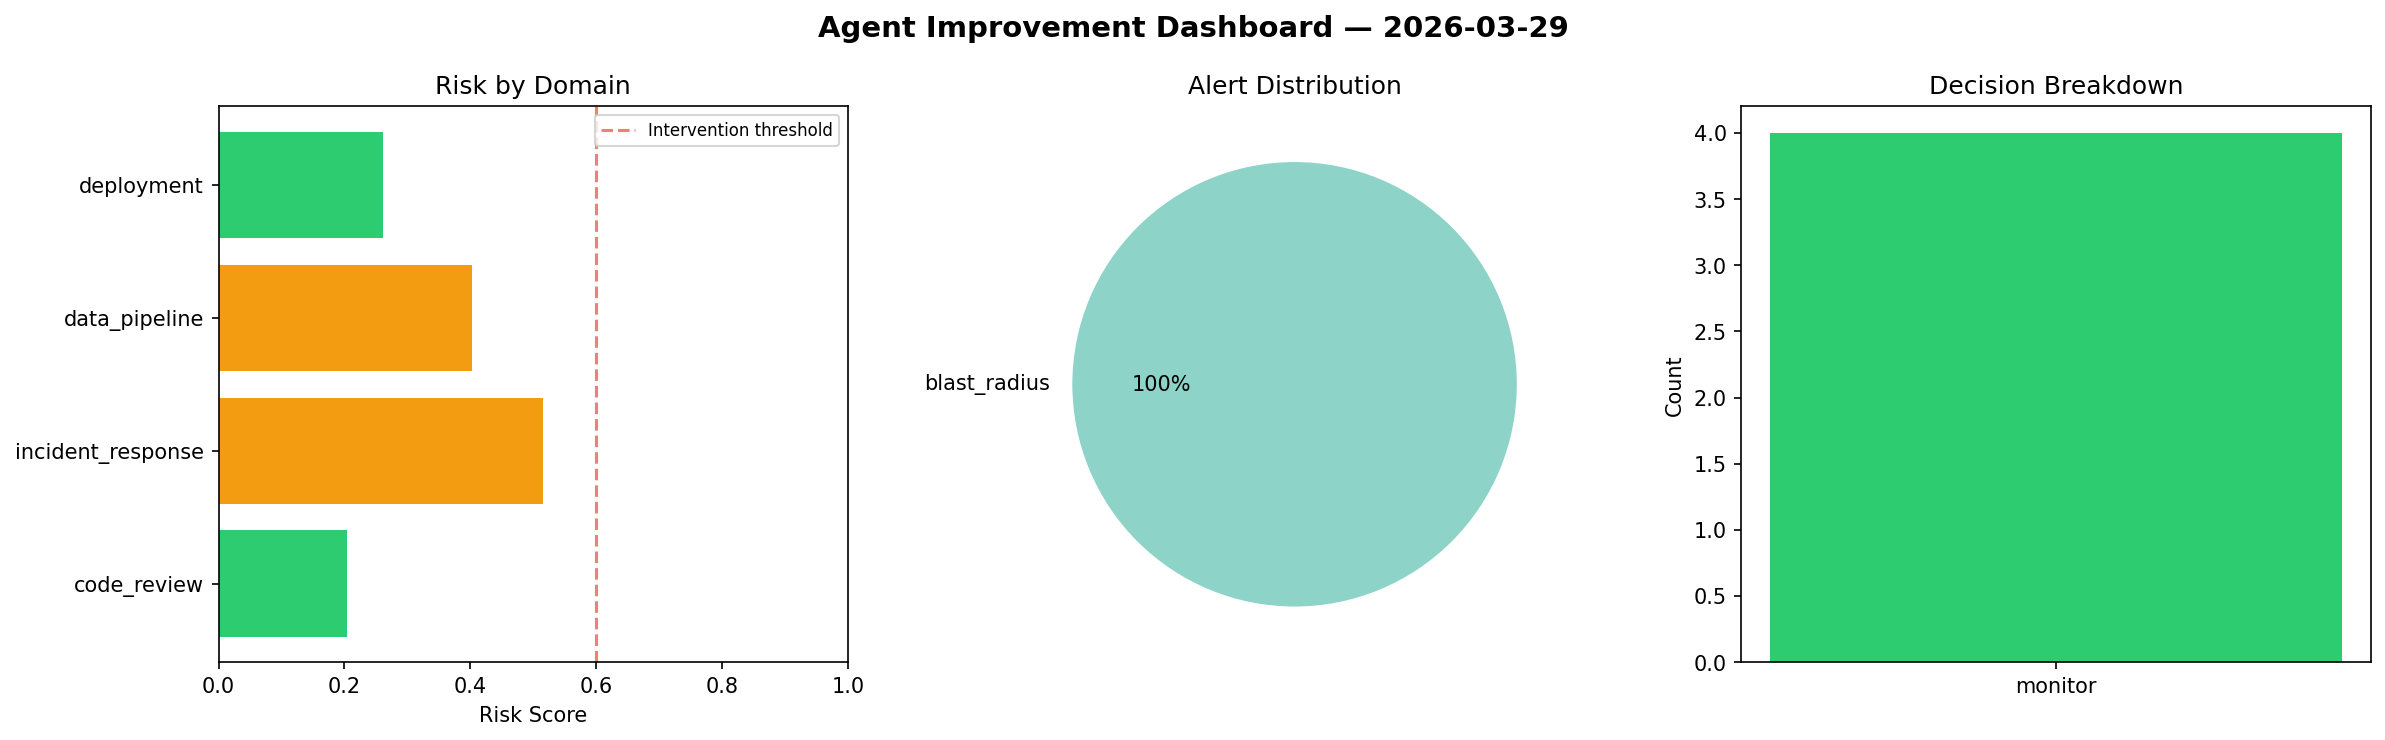
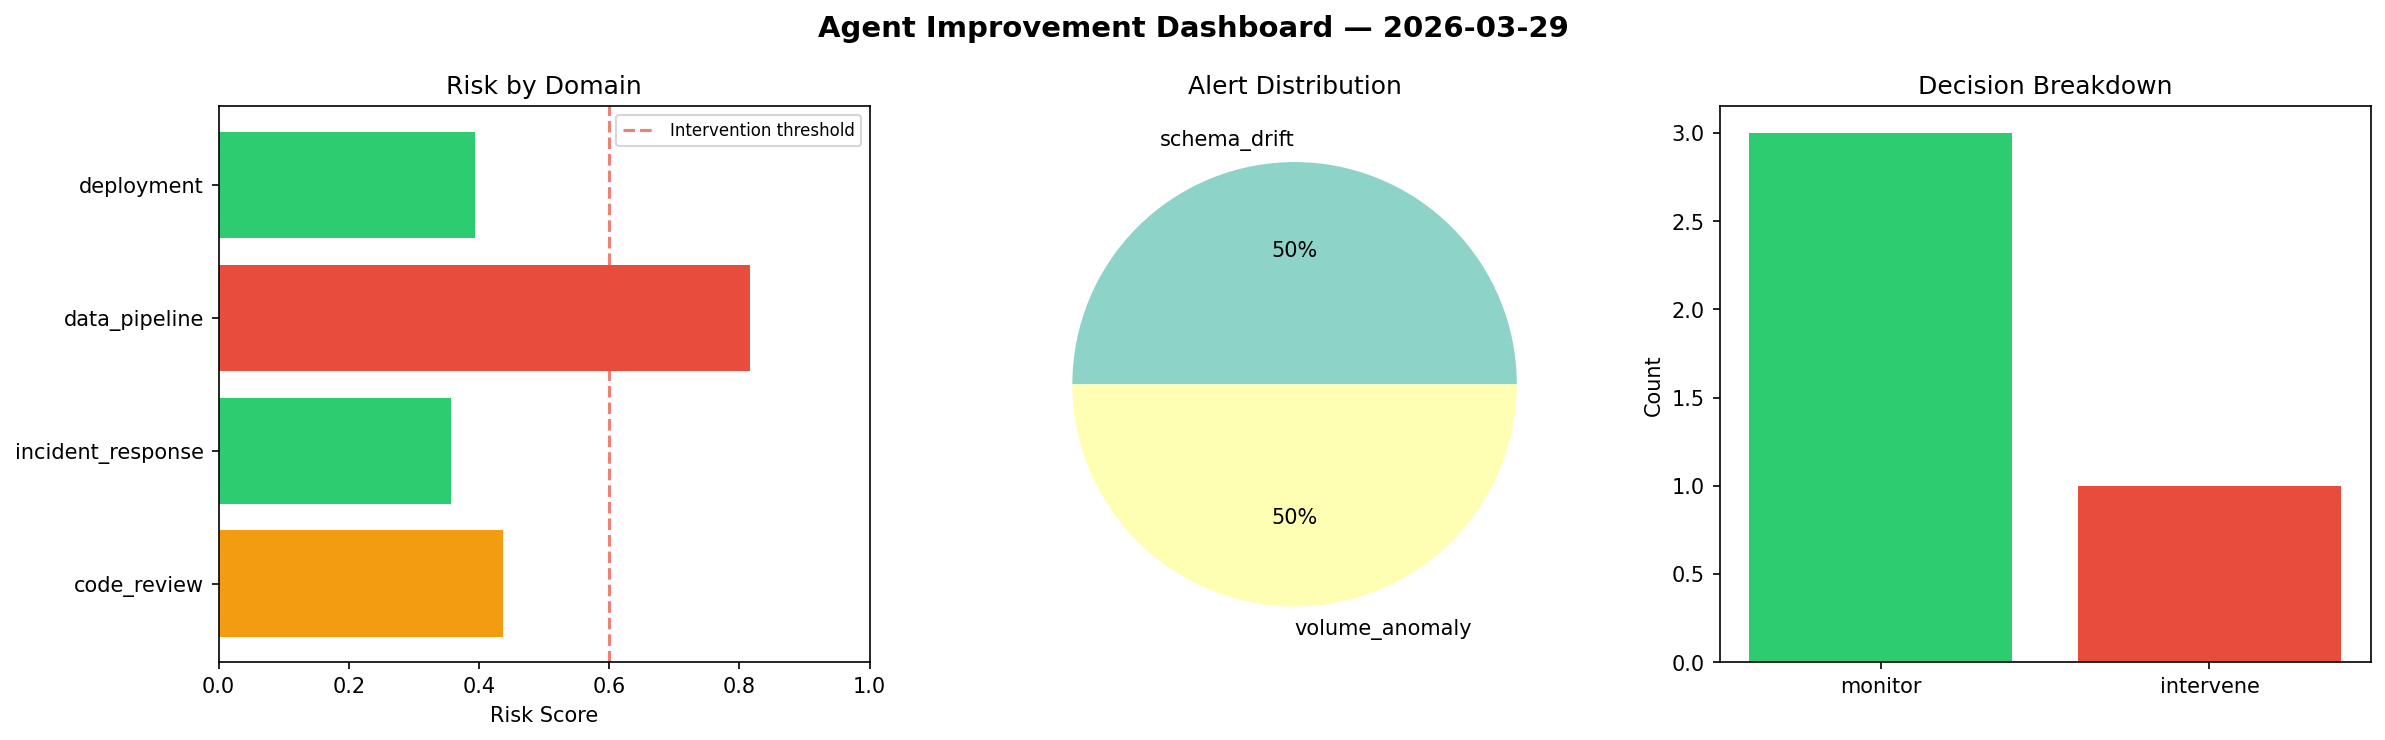
agent-improvement: daily cycle 2026-03-29T20:49

diff --git a/logs/2026-03-29.md b/logs/2026-03-29.md
@@ -1,6 +1,6 @@
 # Agent Improvement Report — 2026-03-29
 
-**Cycle ID:** `49981dee` | **Avg Risk:** 0.3457 | **Interventions:** 0/4
+**Cycle ID:** `96eff6b9` | **Avg Risk:** 0.501 | **Interventions:** 1/4
 
 ![Dashboard](2026-03-29_dashboard.png)
 
@@ -10,18 +10,18 @@
 
 | Domain | Risk Score | Decision | Alerts |
 |--------|-----------|----------|--------|
-| code_review | 0.2036 | monitor | none |
-| incident_response | 0.5153 | monitor | blast_radius |
-| data_pipeline | 0.4024 | monitor | none |
-| deployment | 0.2614 | monitor | none |
+| code_review | 0.4373 | monitor | none |
+| incident_response | 0.3568 | monitor | none |
+| data_pipeline | 0.8162 | intervene | schema_drift, volume_anomaly |
+| deployment | 0.3935 | monitor | none |
 
 ## Delta vs Yesterday
 
 | Domain | Today | Yesterday | Change |
 |--------|-------|-----------|--------|
-| code_review | 0.2036 | 0.5276 | 📉 -61.4% |
-| incident_response | 0.5153 | 0.5439 | 📉 -5.3% |
-| data_pipeline | 0.4024 | 0.6187 | 📉 -35.0% |
-| deployment | 0.2614 | 0.6387 | 📉 -59.1% |
+| code_review | 0.4373 | 0.5276 | 📉 -17.1% |
+| incident_response | 0.3568 | 0.5439 | 📉 -34.4% |
+| data_pipeline | 0.8162 | 0.6187 | 📈 31.9% |
+| deployment | 0.3935 | 0.6387 | 📉 -38.4% |
 
-**Refinement:** `{'adjustment': 'tighten_thresholds', 'trend': 'degrading', 'window': 4}`
+**Refinement:** `{'adjustment': 'maintain', 'trend': 'improving', 'window': 4}`
